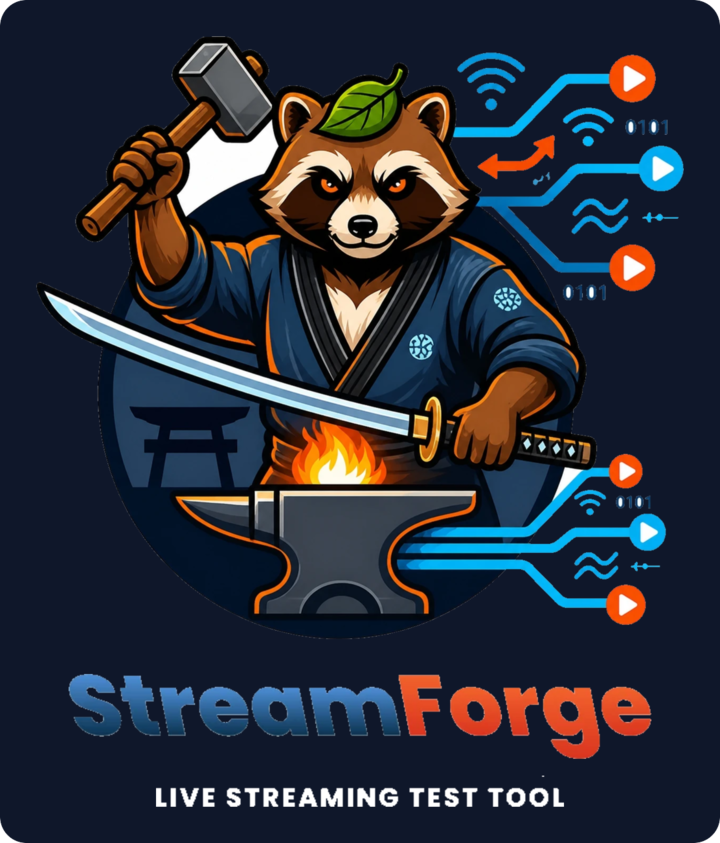
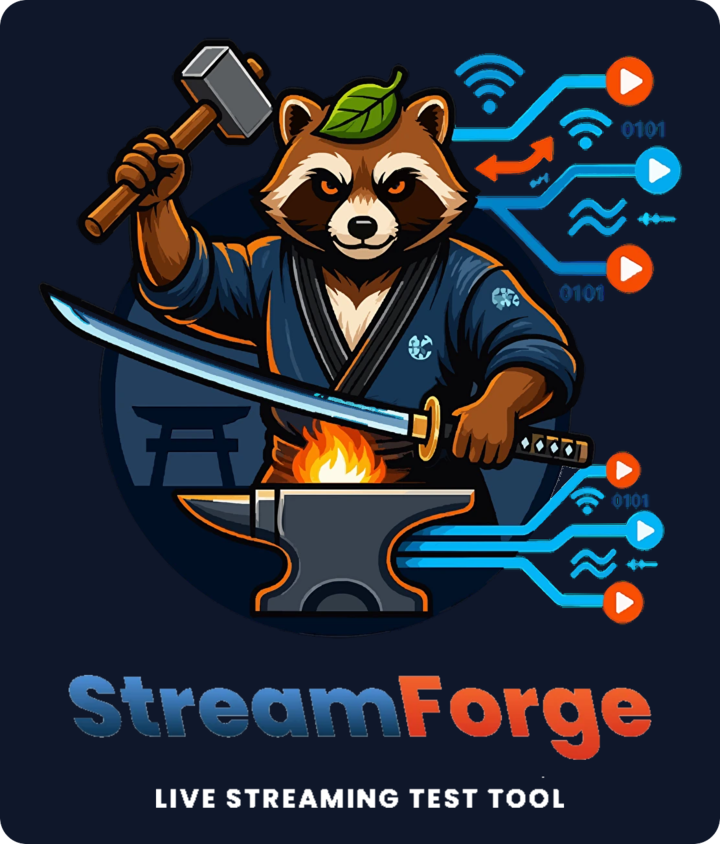
chore: エンブレムを手調整の白抜き版に差し替え、build-brand.sh を外す
streamforge-private の main（a3c8804）の内容を反映。

Changed region(s): [[0.0611, 0.0308, 0.9472, 0.7402], [0.4583, 0.3393, 0.4889, 0.3701], [0.275, 0.5243, 0.3056, 0.5552]]

diff --git a/assets/brand/README.md b/assets/brand/README.md
@@ -1,12 +1,16 @@
 # ブランド素材の原本
 
 ここに置くのは**原本だけ**。実行時にこのディレクトリを読むコードは無い。
-配信用・掲載用は `tools/build-brand.sh` がここから生成する（→ `app/static/brand/`、`docs/images/brand/`）。
+配信用・掲載用（`app/static/brand/`、`docs/images/brand/`）はここから生成したもの。
+生成に使ったスクリプト（`tools/build-brand.sh`）はエンコードテストツール本体とは
+無関係なため、公開リポジトリからは外してある。原画を差し替えて作り直す場合は、
+このディレクトリの構成（原本→白地抜き→ロックアップ合成）を参考に個別に作業すること。
 
 | ファイル | 中身 | 何から作ったか |
 |---|---|---|
 | `icon-master-1254.webp` | エンブレム単体（1254×1254・白地） | 支給された原画。すべての派生物の出どころ |
-| `icon-master-transparent.png` | 同上の白地を抜いたもの | 上から生成。ロックアップの部品 |
+| `icon-master-transparent-adjusted.webp` | 白地を手で抜いたエンブレム（1000×1000・透過） | 支給。自動の白抜きを置き換えたもの |
+| `icon-master-transparent.png` | 上を余白で切り詰めたもの | 上から生成。ロックアップの部品 |
 | `brand-sheet.webp` | ブランドシート（2000×1529） | 支給。ワードマーク・タグライン・配色の版下 |
 | `wordmark.png` | 「StreamForge」（678×99・透過） | ブランドシートの原寸ロゴタイプから切り出し |
 | `tagline.png` | 「LIVE STREAMING TEST TOOL」（391×30・透過） | 同上 |
